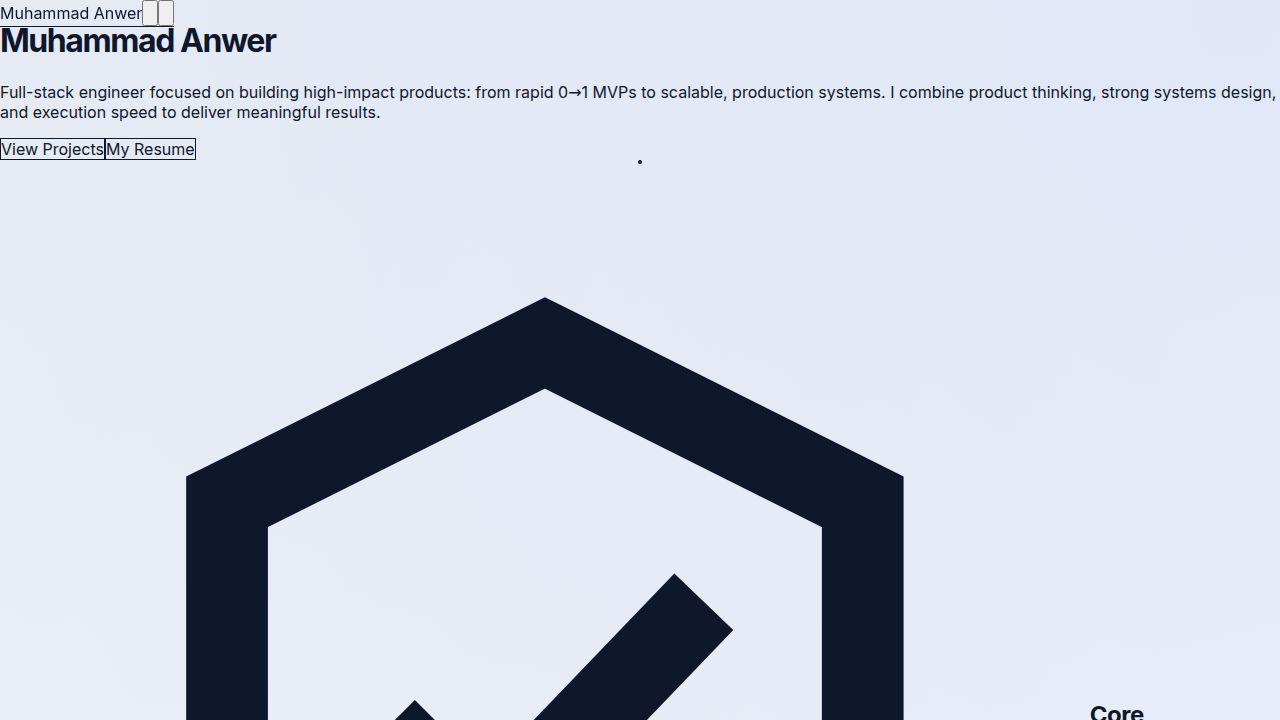
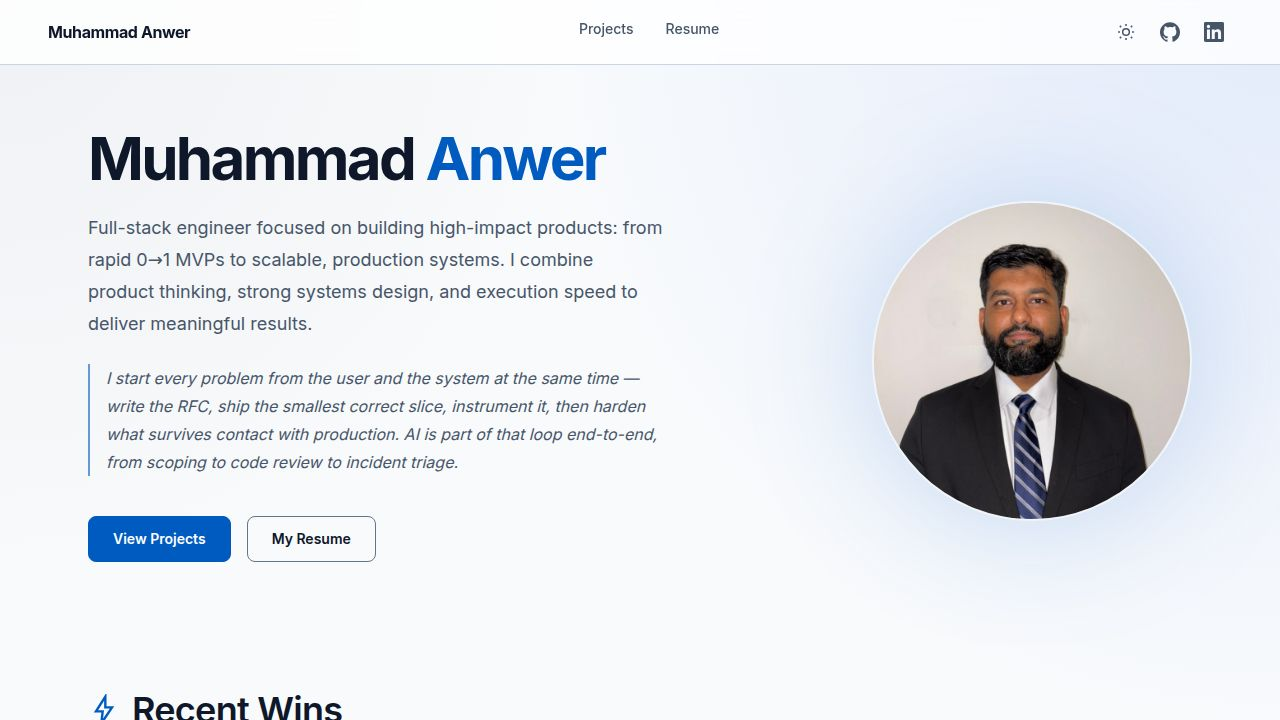
Portfolio content refinements (Task #3)
Homepage:
- Added "How I work" thought-leadership statement under the hero
  description as a left-accented italic blockquote (homeContent.howIWork).
- Added a new "Recent Wins" stat-card strip above Core Competencies
  surfacing 3 marquee outcomes (guest checkout in 1 week → ~40%
  conversion lift, AI-driven MVP → Desjardins pilot in <4 weeks,
  proactive Retool on-call tooling). Cards link to project detail
  pages via wouter Link, reusing SurfaceCard + design tokens.

Resume / shared competencies (defaultResume — single source of truth
for both /resume and / Core Competencies grid):
- Expanded "Owner, E-Commerce Ventures (2010-2019)" from 3 to 7
  outcome-oriented bullets covering product/design, supplier ops,
  acquisition/retention, content production, P&L, and exit.
- Replaced "ML & AI" competency with "AI in Practice (Daily)"
  explicitly naming day-to-day AI workflows: Cursor + agentic coding,
  AI code review, test generation, debugging triage, RFC drafting,
  and the toolchain (OpenAI, Cursor, Cleric, Mendral, Langbase).
- Added "Stakeholder & Delivery" competency covering non-technical
  stakeholder alignment, managing upwards, and agile/waterfall
  delivery.

Cleanup:
- Removed the now-dead duplicate homeContent.competencies array from
  data/site.ts (architect review caught it). Home and resume now
  share defaultResume.competencies as the sole source of truth.

Verified: portfolio workflow renders /, /resume, /projects,
[…]

diff --git a/artifacts/portfolio/src/lib/default-resume.ts b/artifacts/portfolio/src/lib/default-resume.ts
@@ -47,9 +47,32 @@ export const defaultResume: ParsedResume = {
       icon: "cloud",
     },
     {
-      label: "ML & AI",
-      value: text("TensorFlow, PyTorch, Langbase, Agentic workflows (OpenAI, Cursor, Cleric, Mendral)"),
+      label: "AI in Practice (Daily)",
+      value: mixed(
+        plain("Force multiplier across the full SDLC, used every day. "),
+        bold("Cursor + agentic coding"),
+        plain(" for feature scaffolding, refactors, and codebase navigation; "),
+        bold("AI-assisted code review"),
+        plain(" to catch regressions before PR; "),
+        bold("test generation"),
+        plain(" (Jest/RTL) to lift coverage on legacy paths; "),
+        bold("debugging triage"),
+        plain(" of incidents and stack traces; "),
+        bold("RFC and doc drafting"),
+        plain(". Production experience with OpenAI, Cursor, Cleric, Mendral, and Langbase; ML foundations in TensorFlow, PyTorch, Scikit-learn."),
+      ),
       icon: "generative_ai",
+    },
+    {
+      label: "Stakeholder & Delivery",
+      value: mixed(
+        plain("Align non-technical stakeholders, manage upwards, and partner closely with product, design, and operations. Translate ambiguous requirements into scoped deliverables, surface tradeoffs early, and communicate risk before it becomes urgent. Comfortable in "),
+        bold("agile"),
+        plain(" (sprints, standups, planning, retros) and "),
+        bold("waterfall"),
+        plain(" delivery; have led pilots, vendor demos, and post-incident reviews directly with customers and executives."),
+      ),
+      icon: "psychology",
     },
   ],
   experience: [
@@ -84,9 +107,13 @@ export const defaultResume: ParsedResume = {
       role: "Owner, E-Commerce Ventures",
       companyLine: "Self-employed | Remote | Jan 2010 - Dec 2019",
       bullets: [
-        text("Bootstrapped and scaled two online ventures: an e-learning platform and an Amazon FBA storefront."),
-        mixed(bold("Product and growth"), plain(": built and marketed digital products and physical goods, acquiring and retaining a global customer base.")),
-        mixed(bold("Operations and ownership"), plain(": managed suppliers, inventory, content, and P&L across both ventures, leading to a successful exit with ongoing royalty income.")),
+        text("Bootstrapped and scaled two online ventures over a decade: an e-learning platform and an Amazon FBA storefront, ultimately exiting with ongoing royalty income."),
+        mixed(bold("Product design and merchandising"), plain(": defined the catalog, designed packaging and listing imagery, and shaped the customer-facing brand end-to-end - acting as solo product manager, designer, and copywriter to ship a coherent line of digital and physical goods.")),
+        mixed(bold("Supplier sourcing and negotiation"), plain(": qualified overseas manufacturers, negotiated unit economics and MOQs, and coordinated quality control and logistics to keep margins healthy as volume scaled.")),
+        mixed(bold("Customer acquisition and retention"), plain(": ran SEO, paid acquisition, email funnels, and Amazon listing optimization to grow a global customer base; iterated on copy and creative based on conversion data to lift repeat purchase rates.")),
+        mixed(bold("Content production"), plain(": authored and produced the full course library for the e-learning venture (video, written lessons, assessments), then maintained it through multiple revisions as the curriculum matured.")),
+        mixed(bold("Operations and P&L"), plain(": owned inventory planning, cash flow, taxes, returns, and customer support across both ventures; turned operating discipline into a profitable steady-state that supported a successful exit.")),
+        mixed(bold("Outcomes"), plain(": grew both ventures to sustainable profitability, sold the e-learning platform to a strategic acquirer with continuing royalty income, and built the systems thinking and product instincts I bring to engineering work today.")),
       ],
     },
   ],

diff --git a/artifacts/portfolio/src/pages/HomePage.tsx b/artifacts/portfolio/src/pages/HomePage.tsx
@@ -1,5 +1,6 @@
+import { Link } from 'wouter';
 import HomeCtas from '@/components/HomeCtas';
-import { SymbolIcon } from '@/components/icons';
+import { ArrowUpRightIcon, SymbolIcon } from '@/components/icons';
 import RichText from '@/components/RichText';
 import SiteShell from '@/components/SiteShell';
 import { PageContainer, PageSection, SurfaceCard } from '@/components/ui';
@@ -23,6 +24,9 @@ export default function HomePage() {
             <p className="max-w-xl text-lg leading-8 text-on-surface-variant">
               {homeContent.description}
             </p>
+            <p className="max-w-xl border-l-2 border-primary/60 pl-4 text-base italic leading-7 text-on-surface-variant">
+              {homeContent.howIWork}
+            </p>
             <HomeCtas />
           </div>
 
@@ -35,6 +39,58 @@ export default function HomePage() {
                 className="absolute inset-0 h-full w-full object-cover transition-all duration-500"
               />
             </div>
+          </div>
+        </PageSection>
+
+        <PageSection className="space-y-8">
+          <h2 className="flex items-center gap-3 text-3xl font-semibold tracking-[-0.02em] text-on-surface md:text-4xl">
+            <SymbolIcon
+              name="bolt"
+              className="h-7 w-7 text-primary md:h-8 md:w-8"
+            />
+            Recent Wins
+          </h2>
+          <div className="grid grid-cols-1 gap-6 md:grid-cols-3">
+            {homeContent.recentWins.map((win) => {
+              const card = (
+                <SurfaceCard
+                  className={`flex h-full flex-col gap-4 p-7 transition-all duration-300 ${
+                    win.href ? 'group-hover:-translate-y-1 group-hover:border-primary' : ''
+                  }`}
+                >
+                  <div className="flex items-baseline justify-between gap-3">
+                    <span className="text-4xl font-bold tracking-[-0.04em] text-primary md:text-5xl">
+                      {win.stat}
+                    </span>
+                    {win.href ? (
+                      <span className="text-on-surface-variant transition-colors group-hover:text-primary">
+                        <ArrowUpRightIcon className="h-5 w-5" />
+                      </span>
+                    ) : null}
+                  </div>
+                  <h3 className="text-xl font-semibold tracking-[-0.02em] text-on-surface">
+                    {win.title}
+                  </h3>
+                  <p className="text-sm leading-7 text-on-surface-variant">
+                    {win.description}
+                  </p>
+                </SurfaceCard>
+              );
+
+              return win.href ? (
+                <Link
+                  key={win.title}
+                  href={win.href}
+                  className="group block h-full"
+                >
+                  {card}
+                </Link>
+              ) : (
+                <div key={win.title} className="h-full">
+                  {card}
+                </div>
+              );
+            })}
           </div>
         </PageSection>
 

diff --git a/artifacts/portfolio/src/data/site.ts b/artifacts/portfolio/src/data/site.ts
@@ -36,40 +36,35 @@ export const homeContent = {
   accent: 'Anwer',
   description:
     'Full-stack engineer focused on building high-impact products: from rapid 0→1 MVPs to scalable, production systems. I combine product thinking, strong systems design, and execution speed to deliver meaningful results.',
+  howIWork:
+    'I start every problem from the user and the system at the same time — write the RFC, ship the smallest correct slice, instrument it, then harden what survives contact with production. AI is part of that loop end-to-end, from scoping to code review to incident triage.',
+  recentWins: [
+    {
+      stat: '1 week',
+      title: 'Guest checkout, shipped',
+      description:
+        'Delivered an end-to-end subscription guest checkout in one week at LaunchGood. >50% of new subscribers adopted it, lifting conversions ~40%.',
+      href: '/projects/launchgood',
+    },
+    {
+      stat: '<4 weeks',
+      title: 'AI-driven MVP → pilot',
+      description:
+        'Led full AI-driven development of an emissions platform MVP from prototype to production, winning a competitive vendor demo with Desjardins.',
+      href: '/projects/esg-financed-emissions',
+    },
+    {
+      stat: '0 → adopted',
+      title: 'Proactive on-call tooling',
+      description:
+        'Built Retool dashboards (donor lookup, scheduled-giving KPIs) without a formal request — now used daily across operations and on-call.',
+      href: '/projects/launchgood',
+    },
+  ],
   portrait: {
     src: '/C1F0A34C-22D0-425C-9909-2A768B9C1864_1_105_c.jpeg',
     alt: 'Muhammad Anwer',
   },
-  competencies: [
-    {
-      title: 'Engineering Leadership',
-      description:
-        'Mentoring teams, establishing best practices, and driving technical vision from conception to deployment.',
-      icon: 'psychology',
-    },
-    {
-      title: 'Languages',
-      icon: 'code_blocks',
-      tags: ['TypeScript', 'Python', 'Go'],
-    },
-    {
-      title: 'Frameworks & Libraries',
-      icon: 'layers',
-      tags: ['React', 'Next.js', 'Tailwind CSS'],
-    },
-    {
-      title: 'Architecture & Systems',
-      description:
-        'Designing resilient, microservices-based architectures and scalable data pipelines for high-traffic applications.',
-      icon: 'architecture',
-      wide: true,
-    },
-    {
-      title: 'Cloud & DevOps',
-      icon: 'cloud',
-      tags: ['AWS', 'Docker', 'CI/CD'],
-    },
-  ] satisfies Competency[],
 };
 
 export const getBetterTogetherProject: ProjectDetail = {
